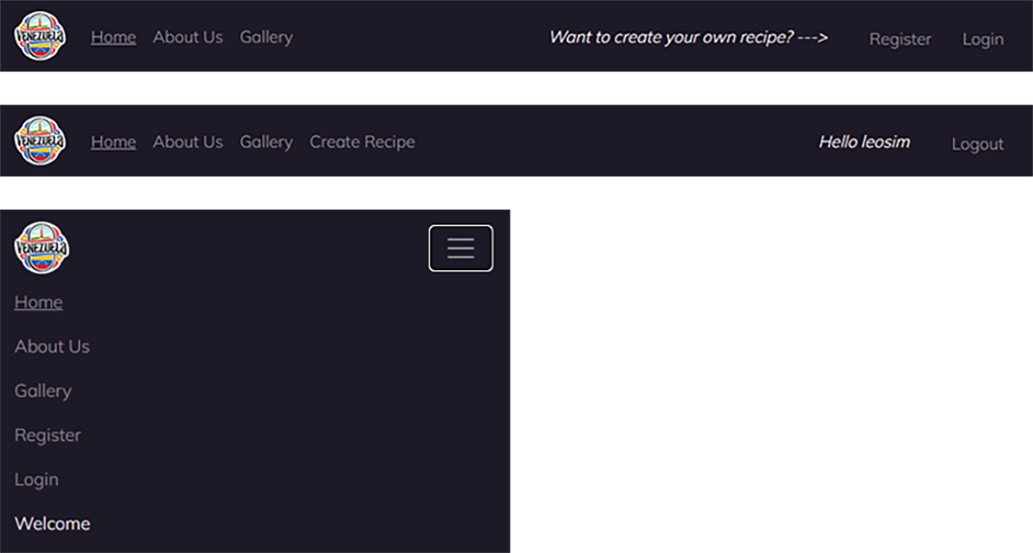
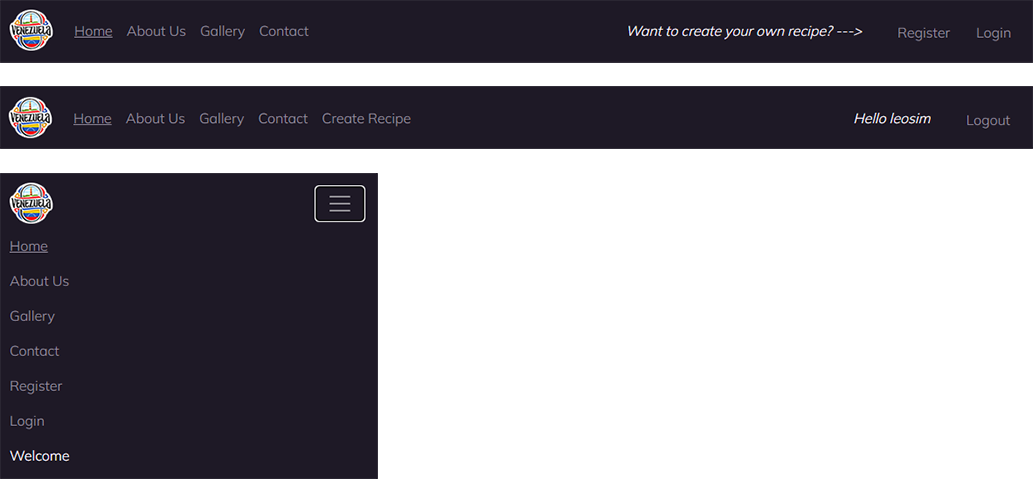
Add contact to corresponding readme sections

diff --git a/README.md b/README.md
@@ -46,6 +46,7 @@ This site seeks to provide a service required by users world-wide looking to exp
 - As a site user, I would like to view a paginated list of recipes, so that I can easily select which recipe to view, [Link here](https://github.com/leonardo-simeone/venezuelan-food-cookbook/issues/10).
 - As a site user, I would like to avail of a website with a UX based design, so that I can navigate and interact with it easily and intuitively, [Link here](https://github.com/leonardo-simeone/venezuelan-food-cookbook/issues/12).
 - As a registered site user, I would like to like recipes, so that I can show I liked a particular recipe, [Link here](https://github.com/leonardo-simeone/venezuelan-food-cookbook/issues/13).
+- As a site user, I would like to contact the site administrator, so that I can query/recommend the site admin on different topics, [Link here](https://github.com/leonardo-simeone/venezuelan-food-cookbook/issues/14).
 
 ### Site Admin
 
@@ -150,6 +151,13 @@ To wireframe the website I used [Whimsical](https://whimsical.com/wireframes).
 
 ![Delete Recipe](documentation/delete-recipe.png)
 
+- **Contact**
+
+    - The contact page contains the form necessary to allow the user to contact the site owner/administrator. The purpose of this feature is for the user to have a way to communicate queries/suggestions/feedback to the site owner/administrator.
+    - The user must provide a name, an email and a message in the form.
+
+![Contact](documentation/contact.png)
+
 - **Footer**
 
     - The footer the same as the navbar, is identical across the site.
@@ -225,6 +233,13 @@ Entity Relationship Diagrams (ERD) help to visualize database architecture befor
 Understanding the relationships between different tables can save time later in the project.
 
 ```python
+from django.db import models
+from django.contrib.auth.models import User
+from tinymce.models import HTMLField
+from cloudinary.models import CloudinaryField
+from multiselectfield import MultiSelectField
+
+
 class Recipe(models.Model):
 
     """
@@ -241,18 +256,32 @@ class Recipe(models.Model):
     with a custom string.
     """
 
-    RECIPE_TAGS = (('Breakfast', 'Breakfast'), ('Lunch', 'Lunch'), ('Dinner', 'Dinner'), ('Supper', 'Supper'), ('Dessert', 'Dessert'), ('Drink', 'Drink'),)
+    RECIPE_TAGS = (
+        ('Breakfast', 'Breakfast'), ('Lunch', 'Lunch'), ('Dinner', 'Dinner'),
+        ('Supper', 'Supper'), ('Dessert', 'Dessert'), ('Drink', 'Drink'),
+        )
 
-    creator = models.ForeignKey(User, on_delete=models.CASCADE, default=1, related_name='recipe_creator')
-    title = models.CharField(max_length=25, unique=True, null=False, blank=False)
-    short_description = models.CharField(max_length=100, null=False, blank=False)
+    creator = models.ForeignKey(
+        User, on_delete=models.CASCADE, default=1,
+        related_name='recipe_creator'
+        )
+    title = models.CharField(
+        max_length=25, unique=True, null=False, blank=False
+        )
+    short_description = models.CharField(
+        max_length=100, null=False, blank=False
+        )
     ingredients = models.TextField(null=False, blank=False)
     instructions = HTMLField(null=False, blank=False)
     food_image = CloudinaryField('image', default='default-image')
     created = models.DateTimeField(auto_now_add=True)
     updated = models.DateTimeField(auto_now=True)
-    tags = MultiSelectField(max_length=120, choices=RECIPE_TAGS, null=True, blank=True)
-    likes = models.ManyToManyField(User, related_name='recipe_likes', blank=True)
+    tags = MultiSelectField(
+        max_length=120, choices=RECIPE_TAGS, null=True, blank=True
+        )
+    likes = models.ManyToManyField(
+        User, related_name='recipe_likes', blank=True
+        )
 
     class Meta:
         ordering = ['-created']
@@ -276,7 +305,10 @@ class Comment(models.Model):
     to represent the objects with a custom string.
     """
 
-    recipe = models.ForeignKey(Recipe, on_delete=models.CASCADE, null=True, blank=True, related_name='comments')
+    recipe = models.ForeignKey(
+        Recipe, on_delete=models.CASCADE, null=True,
+        blank=True, related_name='comments'
+        )
     name = models.CharField(max_length=200)
     body = models.TextField()
     created = models.DateTimeField(auto_now_add=True)
@@ -287,6 +319,22 @@ class Comment(models.Model):
 
     def __str__(self):
         return 'Comment made by ' + self.name + ' on ' + self.recipe.title
+
+
+class Contact(models.Model):
+
+    """
+    The Contact class inherits from django.db models, it contains
+    the information pertaining to contact objects attributes.
+    """
+
+    name = models.CharField(max_length=50, null=False, blank=False)
+    email = models.EmailField(null=False, blank=False)
+    body = models.TextField(null=False, blank=False)
+
+    def __str__(self):
+        return self.name
+
 ```
 
 ![screenshot](documentation/erd.png)
@@ -304,7 +352,7 @@ class Comment(models.Model):
     | | created | DateTimeField | |
     | | updated | DateTimeField | |
     | | tags | MultiSelectField | |
-    | | likes | ManyToManyField | M2M to **User** model |
+    | **M2M** | likes | ManyToManyField | M2M to **User** model |
 
 - Table: **Comment**
 
@@ -315,6 +363,14 @@ class Comment(models.Model):
     | | body | TextField | |
     | | created | DateTimeField | |
     | | updated | DateTimeField | |
+
+- Table: **Contact**
+
+    | **PK** | **id** (unique) | Type | Notes |
+    | --- | --- | --- | --- |
+    | | name | CharField | |
+    | | email | EmailField | |
+    | | body | TextField | |
 
 ### Graphviz ERD
 
